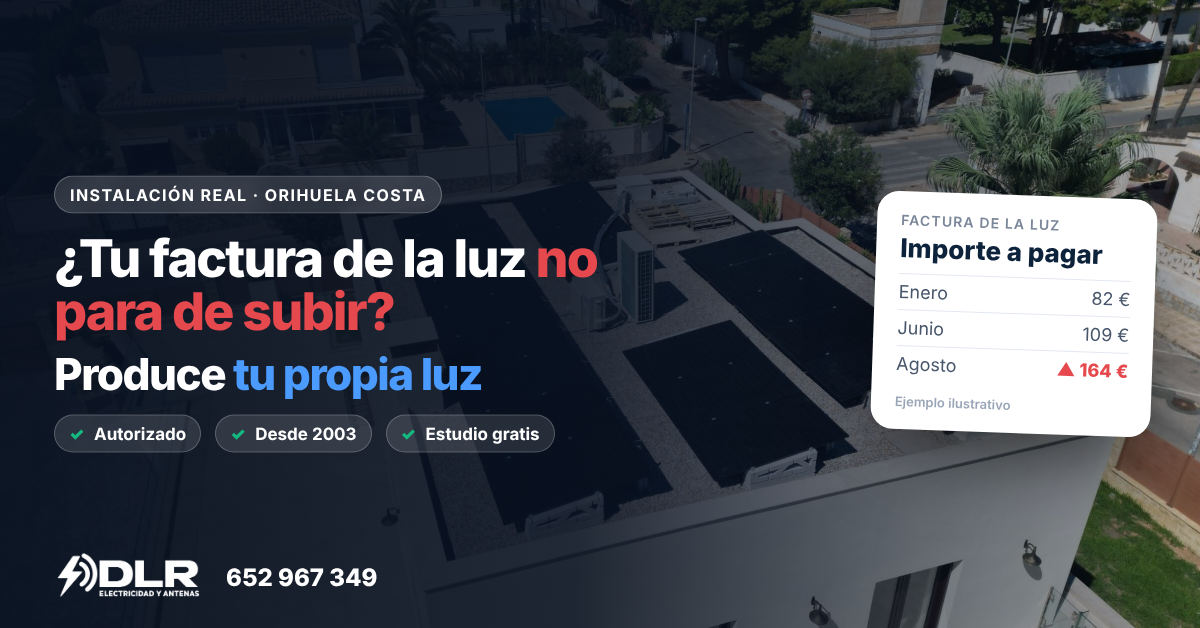
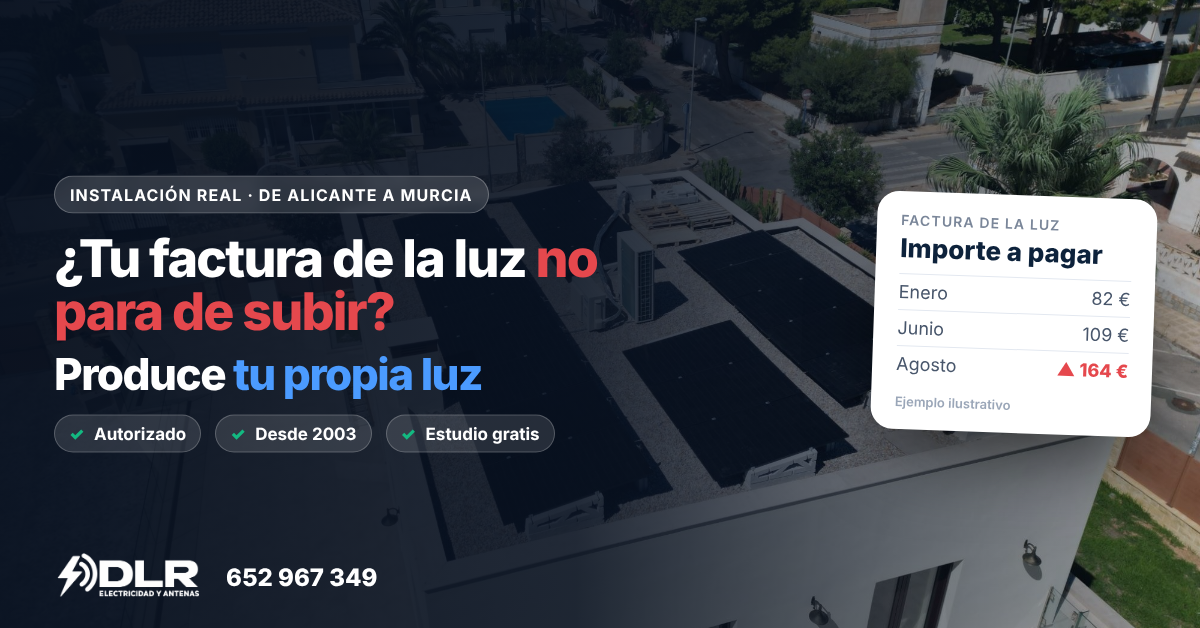
Amplía la zona de los creativos a toda la costa
DLR trabaja de Alicante a Cartagena, no solo la Vega Baja. El rótulo
pasa a "De Alicante a Murcia" y se deja en una línea para que no se
parta en el formato de feed.

Claude-Session: https://claude.ai/code/session_017AvAik93sUVWJxraJ37MoT

Changed region(s): [[0.0617, 0.2723, 0.4317, 0.3631]]

diff --git a/campanas/placas-solares/fuente/creativos-foto.html b/campanas/placas-solares/fuente/creativos-foto.html
@@ -14,9 +14,9 @@ body{background:#777;font-family:-apple-system,BlinkMacSystemFont,"Segoe UI",Rob
 h1{color:#fff;font-weight:850;letter-spacing:-.035em;line-height:1.02}
 .rojo{color:var(--rojo)}
 .azulc{color:#4b9bff}
-.etq{display:inline-block;background:rgba(255,255,255,.14);border:1px solid rgba(255,255,255,.26);
-  color:#fff;font-size:22px;font-weight:750;letter-spacing:.09em;text-transform:uppercase;
-  padding:11px 20px;border-radius:999px;backdrop-filter:blur(6px)}
+.etq{display:inline-block;white-space:nowrap;background:rgba(255,255,255,.14);border:1px solid rgba(255,255,255,.26);
+  color:#fff;font-size:19px;font-weight:750;letter-spacing:.07em;text-transform:uppercase;
+  padding:10px 18px;border-radius:999px;backdrop-filter:blur(6px)}
 .sub{color:#cdd9ea;font-size:34px;line-height:1.35;font-weight:500}
 .factura{position:absolute;background:#fff;color:var(--tinta);border-radius:22px;padding:28px 32px;
   box-shadow:0 40px 80px -24px rgba(0,0,0,.7);transform:rotate(2deg)}
@@ -44,7 +44,7 @@ h1{color:#fff;font-weight:850;letter-spacing:-.035em;line-height:1.02}
   <div class="velo-aba" style="height:720px"></div>
 
   <div style="position:absolute;left:64px;top:62px;width:600px">
-    <span class="etq">Instalación real · Orihuela Costa</span>
+    <span class="etq">Instalación real · De Alicante a Murcia</span>
     <h1 style="font-size:78px;margin-top:26px">¿Tu factura de la luz <span class="rojo">no para de subir?</span></h1>
   </div>
 
@@ -77,7 +77,7 @@ h1{color:#fff;font-weight:850;letter-spacing:-.035em;line-height:1.02}
   <div class="velo-aba" style="height:1000px"></div>
 
   <div style="position:absolute;left:64px;top:230px;width:660px">
-    <span class="etq">Instalación real · Orihuela Costa</span>
+    <span class="etq" style="font-size:21px">Instalación real · De Alicante a Murcia</span>
     <h1 style="font-size:92px;margin-top:28px">¿Tu factura de la luz <span class="rojo">no para de subir?</span></h1>
   </div>
 
@@ -112,7 +112,7 @@ h1{color:#fff;font-weight:850;letter-spacing:-.035em;line-height:1.02}
   <div class="velo-aba" style="height:620px"></div>
 
   <div style="position:absolute;left:56px;top:50px;width:580px">
-    <span class="etq">Instalación real · Orihuela Costa</span>
+    <span class="etq">Instalación real · De Alicante a Murcia</span>
     <h1 style="font-size:66px;margin-top:20px">¿Tu factura de la luz <span class="rojo">no para de subir?</span></h1>
   </div>
 
@@ -143,7 +143,7 @@ h1{color:#fff;font-weight:850;letter-spacing:-.035em;line-height:1.02}
   <img class="foto" src="../fotos/obra-orihuela-cubierta.jpg">
   <div style="position:absolute;inset:0;background:linear-gradient(to right,rgba(7,16,31,.96) 0%,rgba(7,16,31,.88) 48%,rgba(7,16,31,.25) 100%)"></div>
   <div style="position:absolute;left:54px;top:50%;transform:translateY(-50%);width:600px">
-    <span class="etq" style="font-size:16px;padding:8px 15px">Instalación real · Orihuela Costa</span>
+    <span class="etq" style="font-size:16px;padding:8px 15px">Instalación real · De Alicante a Murcia</span>
     <h1 style="font-size:52px;margin-top:18px">¿Tu factura de la luz <span class="rojo">no para de subir?</span></h1>
     <h1 style="font-size:44px;margin-top:14px">Produce <span class="azulc">tu propia luz</span></h1>
     <div class="avales" style="margin-top:18px">

diff --git a/campanas/placas-solares/textos-anuncios.md b/campanas/placas-solares/textos-anuncios.md
@@ -92,3 +92,32 @@ Electricistas autorizados en Torrevieja y la Vega Baja desde 2003.
 **Título:** Produce tu propia luz con placas solares
 **Descripción:** Estudio gratis en menos de 24 h
 **Botón:** Más información → landing de placas solares
+
+
+---
+
+## Cambio de zona · noviembre de 2026
+
+DLR cubre toda la franja costera **de Alicante a Cartagena / Mar Menor**, no solo
+la Vega Baja. En los creativos D el rótulo pasa de «Instalación real · Orihuela
+Costa» a «Instalación real · De Alicante a Murcia».
+
+Formatos del creativo D: `solar-D-4x5.png` (feed), `solar-D-1x1.png`,
+`solar-D-1911.png` (enlaces y columna derecha) y `solar-D-9x16.png` (stories y reels).
+
+**Texto principal actualizado**
+Si cada factura de la luz te da un susto, es momento de producir tu propia energía. ⚡
+Diseñamos e instalamos tu sistema fotovoltaico a medida de tu casa y tu consumo,
+con toda la legalización incluida.
+Electricistas autorizados en toda la costa, de Alicante a Cartagena, desde 2003.
+👉 Pide tu estudio gratis, sin compromiso.
+
+**Segmentación por chinchetas, no por un radio único** (si no, entra todo el interior):
+Alicante +10 · Santa Pola +10 · Guardamar +10 · Torrevieja +15 · Orihuela +15 ·
+Pilar de la Horadada +10 · San Pedro del Pinatar +10 · San Javier +10 ·
+Los Alcázares +10 · Cartagena +15. Siempre «personas que viven en esta ubicación».
+
+Con esta zona, 12 €/día se queda corto: conviene subir a 18-20 €/día.
+
+**Pendiente:** la landing y el SEO siguen diciendo «Torrevieja · Orihuela Costa ·
+Vega Baja», y alguien de Cartagena o Alicante puede pensar que no se le da servicio.
